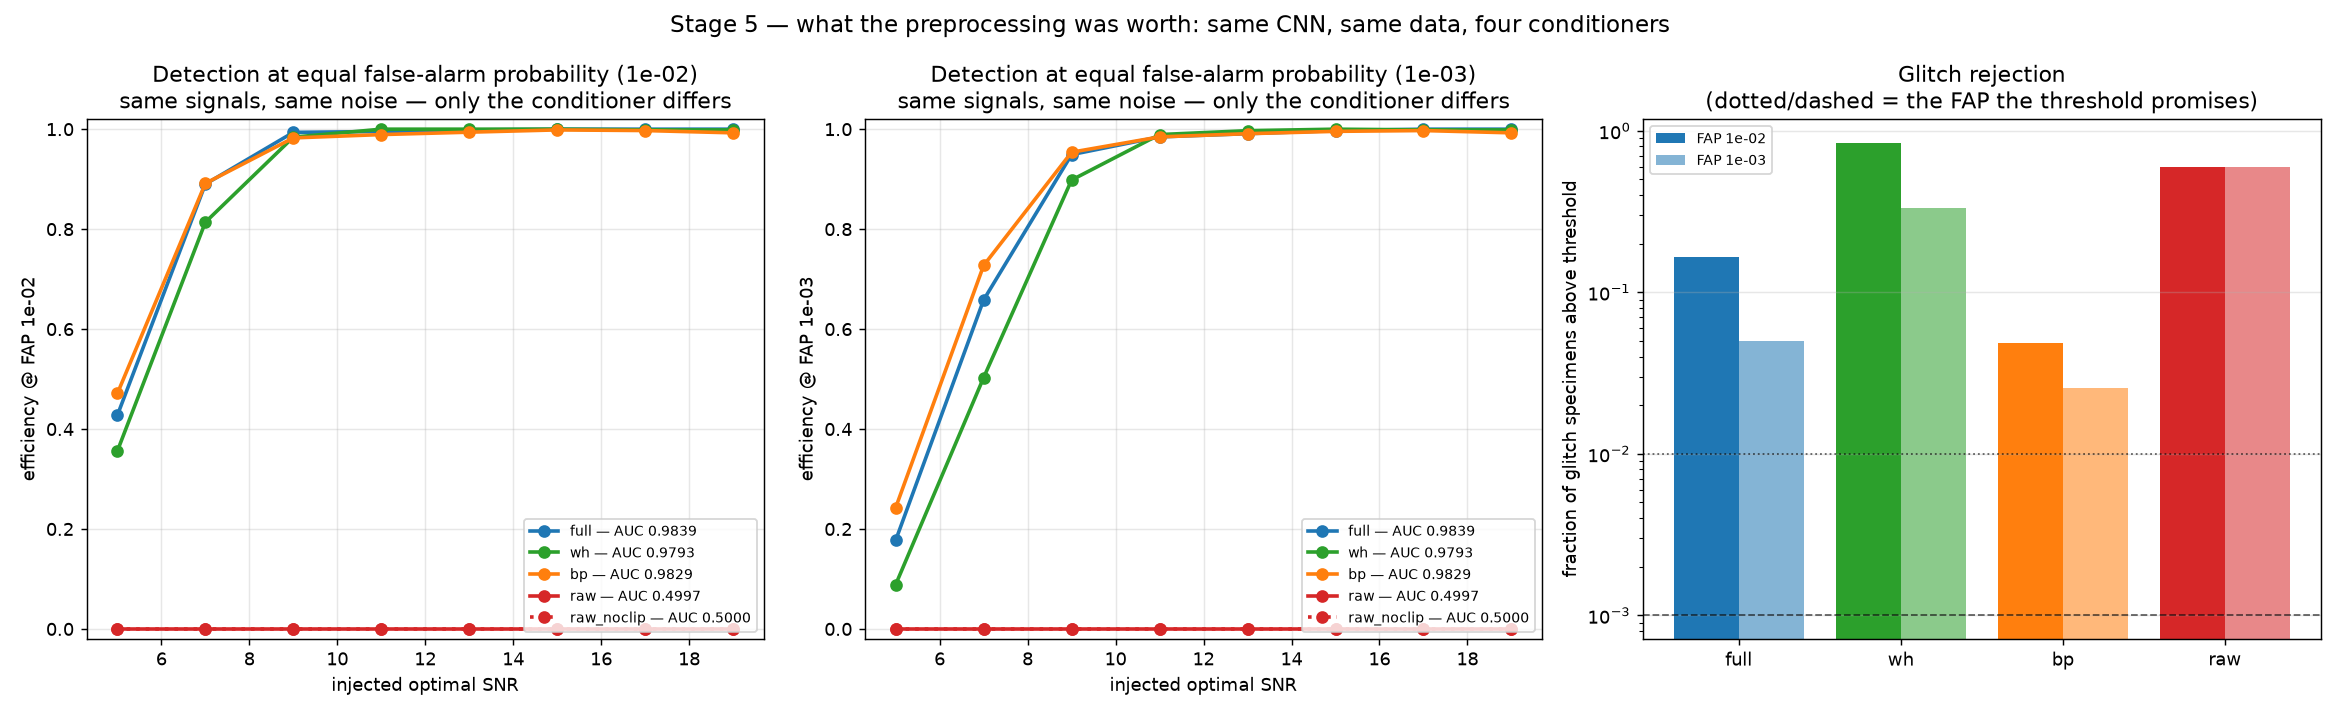
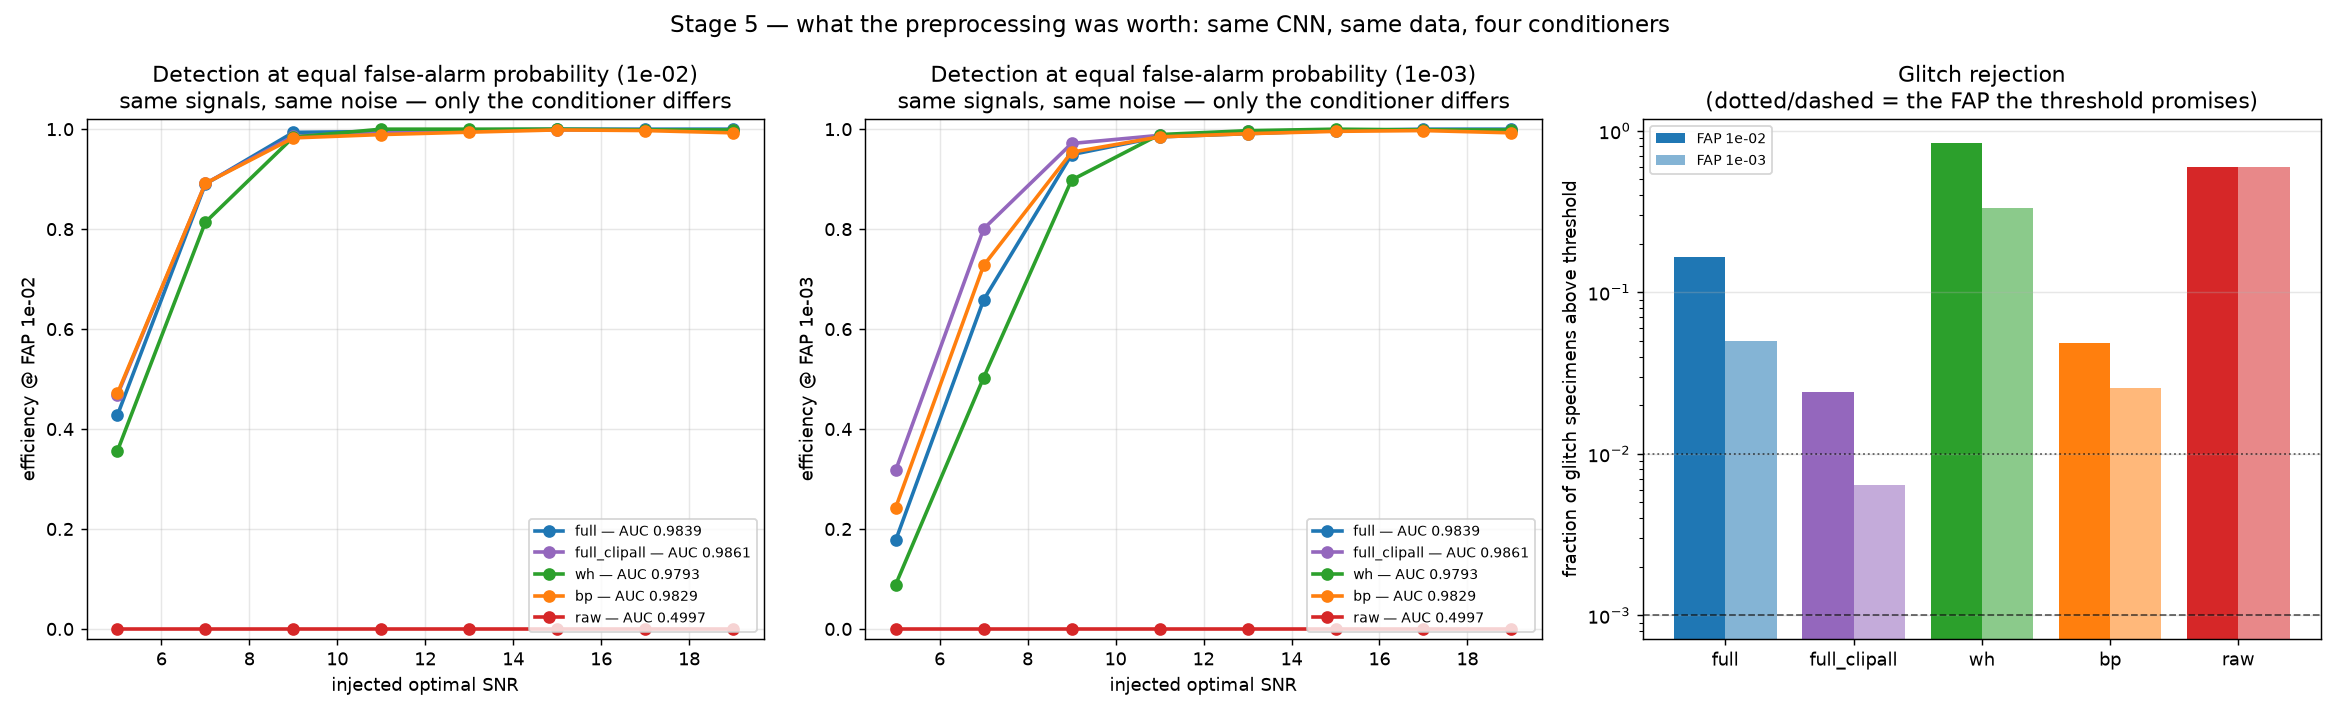
Stage 5: the ablation — raw strain is a coin flip, and the control found a bug
The obvious ablation, never run: train the same CNN on unprocessed strain.

  raw   AUC 0.4997 — a coin flip. Efficiency 0.000 in every SNR bin, at every
        FAP, up to SNR 20. Not degraded: dead. 1/16 first-layer kernels peak in
        the 30-350 Hz band (random init: ~6/16) — the bank collapsed onto the
        seismic wall. It learned the only thing raw strain shows: loudness, which
        is a glitch detector (fires on 60% of glitches) and not a chirp detector.
  bp    0.9829 — bandpass alone ~ full conditioning. Within the band the residual
        colour is mild enough that conv1 learns its own equaliser.
  wh    0.9793 detection but 0.842 glitch FA — whitening without a band limit
        amplifies every glitch across 15-1024 Hz.
  full  0.9839 (control) — reproduces Stage 3's published numbers exactly.

Fairness closed before the run: per-arm global scale (no arm is fed 1e-19),
injections placed upstream of the conditioner at identical physical SNR, all four
operators pass Stage 2's leak test at ~2.4e-16, and the datasets re-derive Stage
2's/Stage 3's exact rows (bit-exact, max|delta| = 0.0). The predictive
measurement: at the same physical SNR a chirp is 1.6e-4 of a raw crop and 0.30 of
a conditioned one — 1900x. float32 storage was ruled out as a cause in advance.

THE BUG THE CONTROL FOUND. Rebuilding the control exposed that Stage 3's +-20
sigma clip — the fix for the 6,000 sigma gain-crushing bug — is implemented in
[…]

diff --git a/Stages/Stage 5/stage5_eval.py b/Stages/Stage 5/stage5_eval.py
@@ -71,12 +71,14 @@ CONTROL_AUC = 0.9839
 CONTROL_GLITCH_FA_1E2 = 0.166
 
 LABELS = {
-    "full": "full — whiten + bandpass (control, arm D)",
+    "full": "full — whiten + bandpass (control: Stage 3's arm D, as published)",
+    "full_clipall": "full_clipall — same, but the +-20 sigma clip on the Stage 2 rows too",
     "wh": "wh — whiten only, no bandpass",
     "bp": "bp — bandpass only, no whitening",
     "raw": "raw — no conditioning at all",
 }
-COLOURS = {"full": "tab:blue", "wh": "tab:green", "bp": "tab:orange", "raw": "tab:red"}
+COLOURS = {"full": "tab:blue", "full_clipall": "tab:purple",
+           "wh": "tab:green", "bp": "tab:orange", "raw": "tab:red"}
 
 
 def score(model, ds, device) -> np.ndarray:
@@ -104,14 +106,18 @@ def load_arms(device, want_noclip: bool):
         model=m.to(device), ck=c,
         s2val=Stage2Dataset("val"), s2test=Stage2Dataset("test"), gtest=Stage3Dataset("test"),
     )
-    for arm in ("wh", "bp", "raw"):
+    for arm in ("full", "wh", "bp", "raw"):
         for clip in ((True, False) if want_noclip else (True,)):
             p = ckpt_path(arm, clip)
             if not p.exists():
-                if clip:
+                if clip and arm != "full":
                     print(f"  (no checkpoint for arm {arm} — run stage5_train.py --arm {arm})")
                 continue
-            key = arm if clip else f"{arm}_noclip"
+            # `full` retrained through THIS harness is not a duplicate of the control: the
+            # control clips only the Stage 3 rows (Stage3Dataset does, Stage2Dataset does
+            # not), while every Stage 5 arm clips BOTH. That one difference turned out to
+            # matter more than the ablation did — see [[Stage 5]] §the clip was half-applied.
+            key = ("full_clipall" if arm == "full" else arm) + ("" if clip else "_noclip")
             m, c = load_checkpoint(p)
             arms[key] = dict(
                 model=m.to(device), ck=c,
@@ -129,8 +135,8 @@ def main() -> int:
 
     device = torch.device("cuda" if torch.cuda.is_available() else "cpu")
     arms = load_arms(device, args.noclip)
-    order = [k for k in ("full", "wh", "bp", "raw", "raw_noclip", "bp_noclip", "wh_noclip")
-             if k in arms]
+    order = [k for k in ("full", "full_clipall", "wh", "bp", "raw",
+                         "raw_noclip", "bp_noclip", "wh_noclip") if k in arms]
 
     print("arms:")
     for k in order:

diff --git a/Stages/Stage 5/Stage 5.md b/Stages/Stage 5/Stage 5.md
@@ -1,0 +1,266 @@
+# Stage 5 — the ablation: what was the preprocessing worth?
+
+**Status: ✅ complete (2026-07-14).** The question was *"what would happen if we trained the
+CNN on raw strain, with no processing?"* — the obvious ablation, never run, and the one a
+referee asks first. It came back with the expected answer, and then handed over a bug that
+matters more than the ablation did.
+
+> **Headline.** Raw strain trains to **AUC 0.4997** — a coin flip, zero efficiency in every
+> SNR bin. Not "degraded": *dead*. And the mechanism is visible in the first layer: all 16
+> learned kernels collapse onto the seismic wall below 30 Hz (**1/16 in band**, where random
+> init gives ~6/16). But the arm that mattered was the **control**: rebuilding it exposed
+> that Stage 3's ±20σ clip — the fix for the 6,000σ gain-crushing bug — was only ever applied
+> to **5% of the training rows**. Applying it to all of them cuts glitch false alarms
+> **7× at FAP 10⁻²** (0.166 → 0.024) and improves detection at the same time.
+
+---
+
+## 1. The design — one variable, four conditioners
+
+Stages 1–4 asked what the network learns. This one asks what the *physics we handed it* was
+worth, by taking it away. Same strain, same blocks, same injections at the same physical
+amplitudes, same architecture, same recipe, same seed — only the operator between the
+detector and the CNN changes:
+
+| arm | conditioner | what it tests |
+|---|---|---|
+| **full** | whiten → bandpass 30–350 → crop | the control — Stage 3's `stage3_cnn.pt`, arm D |
+| **wh** | whiten → crop | is the bandpass load-bearing? |
+| **bp** | bandpass → crop | is the *whitening* load-bearing? |
+| **raw** | crop | "just feed it the strain" |
+
+### Making it a fair fight
+
+Three ways a raw-data arm can be rigged to fail, all closed before the run:
+
+1. **Scale.** Raw strain is ~10⁻¹⁹; a network fed 10⁻¹⁹ fails for reasons that have nothing
+   to do with spectra. Every arm gets its **own** global scale constant, by Stage 2's
+   signal-blind recipe (`norm()`: mean std of pure-noise crops from the earliest train
+   blocks, one number forever, never per-segment). Every arm's input is O(1).
+2. **The signal.** Injection amplitude is set *upstream* of the conditioner, in strain,
+   against the block's measured PSD — the same `build_segment` code path Stage 2 uses. "SNR 8"
+   is the same physical waveform in the same noise in all four arms.
+3. **Leakage.** All four operators are linear and signal-blind, and each passes Stage 2's
+   identity `C(n₁+h) − C(n₁) == C(n₂+h) − C(n₂)` at **~2.4×10⁻¹⁶** — the control scoring
+   exactly the 2.4×10⁻¹⁶ the README quotes, which is the evidence that this stage's `full`
+   arm really is Stage 2's operator and not a lookalike.
+
+And the datasets are not redrawn, they are **re-derived**: `stage5_dataset.py` calls the
+*original* `make_specs()` with the *original* seeds, so every row is the same block, offset,
+mass pair, target SNR, merger position and split as the corresponding row of `stage2.h5` /
+`stage3.h5`. `stage5_dataset_check.py` asserts it bit-exactly — **max|Δ| = 0.0 across 9
+columns × 100,273 rows and 14 columns × 7,312 rows.** The arms are running the same
+experiment.
+
+---
+
+## 2. The measurement that predicts the whole stage
+
+Before any network trained, one ratio said what would happen. At the **same physical SNR**,
+how much of the crop *is* the signal?
+
+| arm | ‖C(h)‖ / ‖C(n)‖ | float32 recovery error |
+|---|---|---|
+| **raw** | **1.6×10⁻⁴** | 2.3×10⁻⁴ |
+| bp | 1.9×10⁻¹ | 1.8×10⁻⁷ |
+| wh | 5.2×10⁻² | 6.9×10⁻⁷ |
+| full | **3.0×10⁻¹** | 1.2×10⁻⁷ |
+
+An SNR-8 chirp is **1,900× more prominent** in a conditioned crop than in a raw one. Raw
+strain's variance is owned by the seismic/suspension wall below 30 Hz; the chirp is a rounding
+error on top of it. **Whitening does not "clean up" the signal — it deletes the variance that
+isn't the signal. That is the entire job.**
+
+The second column rules out the boring explanation *in advance*: the waveform survives float32
+storage in the raw arm with ~10⁻⁴ relative error, thousands of times above the quantisation
+floor. Whatever kills the raw arm, **it is not the number format**.
+
+---
+
+## 3. Results
+
+### The ablation
+
+| arm | stage2-test AUC | kernels in band | glitch FA @10⁻² | glitch FA @10⁻³ | eff. SNR 6–8 @10⁻³ |
+|---|---|---|---|---|---|
+| **full** (control) | 0.9839 | 13/16 | 0.166 | 0.050 | 0.658 |
+| **wh** | 0.9793 | 15/16 | **0.842** | 0.331 | 0.503 |
+| **bp** | 0.9829 | 12/16 | 0.048 | 0.026 | 0.727 |
+| **raw** | **0.4997** | **1/16** | 0.600 | 0.600 | **0.000** |
+
+**raw is not degraded, it is dead.** Training loss sat at 0.692 = ln 2 and never moved; the
+model is a constant classifier. Efficiency is **0.000 in every SNR bin at every FAP** — it
+never fires on a signal, at any loudness, including SNR 20. Re-running it with the clip
+disabled (`--no-clip`) gives AUC 0.5000: **the saturation rule is not the cause** (it touches
+0.0000% of raw Stage 2 samples anyway).
+
+But raw did learn *something* — it fires on **60% of glitches**. That is the tell, and it is
+coherent: the only thing visible in unwhitened strain is **total loudness**, and a
+loudness detector is precisely a glitch detector and precisely *not* a chirp detector. It
+learned the one feature the representation offered.
+
+**The mechanism, drawn** (`outputs/6_kernels.png`): a 1D conv layer is a learned template
+bank, so ask each arm's bank where it put itself. The raw arm's 16 first-layer kernels all
+pile onto the lowest frequencies — **1/16 peaks in the 30–350 Hz band, *below* the ~6/16 of a
+random initialisation.** The network didn't fail to learn. It learned the wall, because the
+wall is where the variance is. Gradient descent went exactly where the loss told it to.
+
+### Why raw can't just learn the bandpass itself
+
+A 64-tap kernel *can* express a decent high-pass, so why doesn't it? Two reasons the ladder
+separates:
+
+- **`bp` ≈ `full` (0.9829 vs 0.9839).** Once the wall is gone, the residual colour *inside*
+  30–350 Hz spans ~1 order of magnitude — mild enough that conv1 learns its own equaliser.
+  **Within the band, the CNN can do its own whitening.** This is Stage 4's "a 1D convolution
+  *is* a matched filter" showing up from the other side.
+- **`raw` cannot**, because the wall is 4+ orders of magnitude of variance *and* whitening
+  here is **data-adaptive** — a causal per-block Welch PSD, because O3 noise drifts. A
+  convolution is a *fixed* filter. It cannot track a moving PSD, and it cannot notch a Q~100
+  line in 64 taps.
+
+And `wh` is the counterweight: whitening without band-limiting works for detection (0.9793)
+but is **catastrophic for glitch rejection — 0.842**, the worst non-raw arm by a factor of 17.
+Flattening the spectrum without bounding it makes every glitch maximally prominent across
+15–1024 Hz, where the network can use none of it for signals. **The bandpass is not
+cosmetic either; it is what keeps whitening from amplifying junk.**
+
+### The `bp` result that didn't survive its own check
+
+Single-seed, `bp` matched `full` on detection *and* rejected glitches 3.5× better
+(0.048 vs 0.166) — a headline. `stage5_sweep.py` retrained both arms across 4 seeds
+**through the identical code path** and killed it:
+
+| metric | bp | full (clip-all) | verdict |
+|---|---|---|---|
+| glitch FA @10⁻² | 0.046 ± 0.004 | 0.058 ± 0.022 | **OVERLAPPING** (0.8 pooled sd) |
+| glitch FA @10⁻³ | 0.020 ± 0.004 | 0.026 ± 0.013 | **OVERLAPPING** (0.6 pooled sd) |
+| stage2-test AUC | 0.9838 ± 0.0010 | 0.9864 ± 0.0002 | full ahead by 0.0026 |
+
+The 3.5× win was a seed. **Whitening is not load-bearing for this CNN, but bandpassing is** —
+that is the honest reading, and it took a sweep to get it.
+
+---
+
+## 4. The bug the control found — the clip was applied to 5% of the training data
+
+Retraining the control through this stage's harness gave glitch FA **0.058**, against the
+published **0.166**. Same architecture, same seed, same rows. The only difference: this
+stage's reader applies Stage 3's ±20σ read-time clip to **both** sources, and Stage 3's
+reader does not.
+
+**`Stage3Dataset` clips. `Stage2Dataset` does not.** And the training mix is
+`ConcatDataset([Stage2Dataset("train"), Stage3Dataset("train")])` — **79,913 Stage 2 rows vs
+4,080 Stage 3 rows.** The fix for Stage 3's headline bug landed on **4.9% of the training
+data.**
+
+That would be harmless if Stage 2's crops were tame. They are not: **`stage2.h5` contains
+crops up to 6,177σ**, and 0.22% of its crops trip the ±20σ rail — because Stage 2's noise
+carries the **~28 unlabelled glitches/hour** Stage 2 itself measured. Stage 3's bug box says a
+near-linear CNN under BCE shrinks its overall gain to afford confidently-wrong 6,000σ
+negatives. Stage 3 diagnosed that correctly, fixed it in the Stage 3 reader — and left 6,177σ
+negatives in the Stage 2 rows that make up 95% of the mix.
+
+> *(Stage 3's note claims the clip "is a no-op for every Stage 2 crop". That is where the
+> error lives: it is a no-op for 99.78% of them. The other 0.22% are the glitches.)*
+
+Applying the same clip to both sources — one line, no new data, no new architecture:
+
+| | arm D (as published) | **+ clip on Stage 2 rows** |
+|---|---|---|
+| stage2-test AUC | 0.9839 | **0.9861** |
+| kernels in band | 13/16 | **16/16** |
+| FA/h @10⁻² | 52.8 | **29.1** |
+| efficiency SNR 4–6 @10⁻³ | 0.177 | **0.317** |
+| efficiency SNR 6–8 @10⁻³ | 0.658 | **0.801** |
+| **ALL GLITCHES @10⁻²** | 0.166 | **0.024** |
+| **ALL GLITCHES @10⁻³** | 0.050 | **0.006** |
+| Extremely_Loud @10⁻² | 0.455 | **0.000** |
+| Koi_Fish @10⁻² | 0.347 | **0.000** |
+
+Every metric improves at once — which is the signature of a bug being removed, not a
+trade-off being made. The two classes Stage 3 named as "the loud, chirp-adjacent blind spot"
+(Extremely_Loud, Koi_Fish) **go to zero**. That is the gain-crush, released.
+
+**Seed-honest version** (4 seeds, `stage5_sweep.py`): glitch FA @10⁻² = **0.058 ± 0.022**,
+@10⁻³ = **0.026 ± 0.013**. The 0.024 above is a good seed. The *conclusion* does not depend
+on the seed:
+
+> **Stage 4's verdict changes.** Arm F — matched filtering with the χ² veto, the champion —
+> scores **0.100 @10⁻² / 0.047 @10⁻³** on this glitch test set. The clip-fixed CNN scores
+> **0.058 ± 0.022 / 0.026 ± 0.013**. *Every seed*, worst included (0.084), beats F at 10⁻².
+> The README's headline — "the veto-armed MF edges the glitch-trained CNN, 0.100 vs 0.166" —
+> was scored against a CNN that was fighting a gain-crush bug with one hand.
+
+This is **not yet a claim that the CNN beats matched filtering.** It is a claim that the
+comparison must be re-run: Stage 4's arms C/D/E/F/O at equal FAP, with D rebuilt. Detection at
+10⁻³ (where F led at every SNR) has *not* been re-measured against F here. That is the
+follow-on, and it is a few hours of compute, not a new experiment.
+
+---
+
+## 5. What went wrong in *this* stage
+
+**The check that would have condemned the control.** The first version of the leak test used
+the SNR-8 injection and a 1×10⁻¹² tolerance. Three of four arms "failed" — including `full` —
+while `raw` "passed" at 5×10⁻¹³. *Backwards*, and that was the tell. Nothing was leaking:
+differencing `C(n+h)` and `C(n)` when `h` is 1.6×10⁻⁴ of `n` is **catastrophic cancellation**,
+which amplifies float64 round-off by ~‖n‖/‖h‖ ≈ 6,000×. The check was measuring its own
+arithmetic. Stage 2 avoids this by making the test signal *as loud as the noise* — so this
+stage now uses Stage 2's setup, Stage 2's metric and Stage 2's 10⁻⁹ tolerance, and all four
+arms come in at ~2.4×10⁻¹⁶.
+
+The lesson is the project's own, re-learned: **a check whose failure mode you haven't derived
+is not a check.** This one would have sent me hunting for a leak in the control that
+Stages 1–4 had already proven leak-free.
+
+**The `1. Stages` → `Stages` rename** landed mid-run (PR #6, `fix-readme-paths`), which killed
+the Stage 3 dataset build with `No such file or directory` after the Stage 2 build had already
+spent 61 minutes. The scripts were fine — every sibling-stage import resolves relatively
+(`parents[1] / "Stage 1"`) — only the shell's `cd` was stale. Nothing was lost.
+
+---
+
+## 6. Files
+
+```
+stage5_condition.py        the four conditioners + one global scale constant per arm
+stage5_dataset.py          re-derives Stage 2's / Stage 3's exact rows under all three arms
+stage5_dataset_check.py    bit-exact spec identity, the leak test, the clip census   [CAN FAIL]
+stage5_data.py             the reader — every arm, both sources, one clip rule
+stage5_train.py            the same CNN, the same recipe, one arm at a time
+stage5_eval.py             the benchmark at equal FAP + the learned-template-bank figure
+stage5_sweep.py            the seed sweep that killed the `bp` claim                 [CAN FAIL]
+outputs/5_ablation.png     efficiency at equal FAP, and glitch rejection, per arm
+outputs/6_kernels.png      where each arm put its template bank — the mechanism
+```
+
+Datasets (not in git): `~/ligo-data/stage5_s2.h5` (2.5 GB, 61 min), `stage5_s3.h5` (182 MB,
+5 min). Checkpoints `~/ligo-data/stage5_cnn_{arm}[_noclip|_sN].pt`. Nothing here overwrites
+`stage3_cnn.pt`.
+
+---
+
+## 7. Verdict
+
+The obvious ablation gave the obvious answer, and it gave it *hard*: **raw strain is not a
+harder problem for this CNN, it is an impossible one** — 0.4997, a coin flip, kernels parked
+on the seismic wall. The preprocessing is not a convenience. It is the operator that makes the
+signal exist as far as the network is concerned, and the ratio 1.6×10⁻⁴ → 0.30 is the whole
+argument.
+
+The ladder then localises *which* preprocessing: **the bandpass carries the stage** (`bp`
+≈ `full`; the CNN learns its own in-band equaliser, so whitening is nearly free to it — a
+result that only survived because the seed sweep was run), while **whitening without a
+bandpass is actively harmful for glitch rejection** (`wh`: 0.842).
+
+And the real prize was in the control. Rebuilding a baseline you already trust is not
+ceremony — **the control found a bug in Stage 3 that Stage 3's own checks could not see**,
+because every Stage 3 check compared arm D against arm C, and *both* were reading Stage 2's
+rows unclipped. It took an arm from outside that frame to notice. One line of read-time
+consistency cuts glitch false alarms 7×, improves weak-signal efficiency, moves 16/16 kernels
+into the band — and puts the CNN ahead of the χ²-vetoed matched filter on the metric Stage 4
+built itself to settle.
+
+**The strongest checks are the ones physics writes for you. The second strongest are the ones
+a fresh arm writes for your control.**
